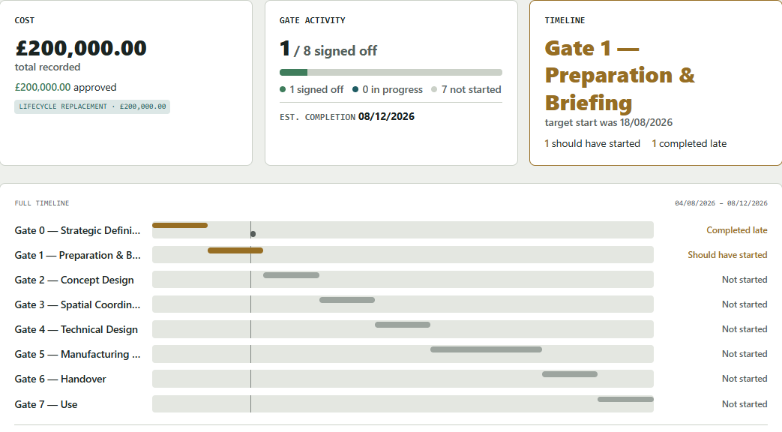
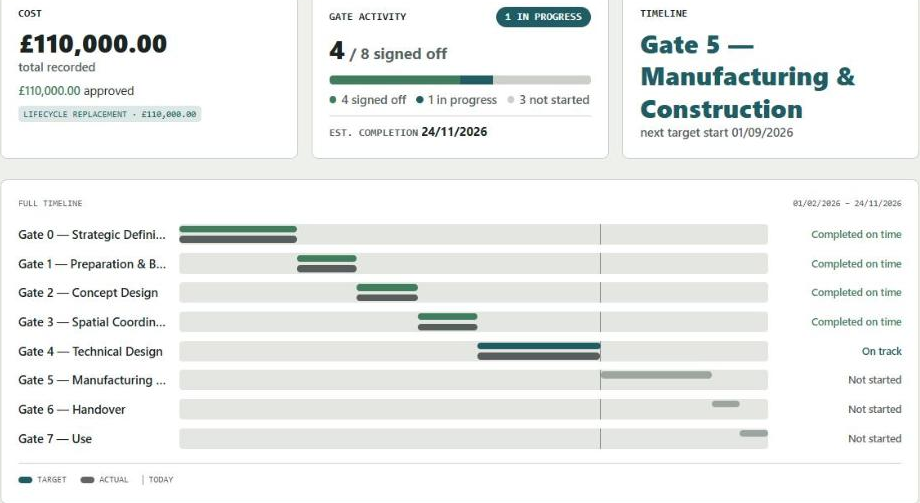
Refresh landing page screenshots and add a scheduled-reports card
Swaps the Gate 0 timeline shot for a Gate 1 deliverables checklist (more
representative content -- real SHTM/CDM-cited items, not just an empty
date picker), replaces the Gate 4 screenshot with the same project's
technical design package, and regenerates the whole-programme dashboard
screenshot (used in both the hero and the walkthrough) to show a healthy
on-time delivery story instead of the old late/not-started state.

Also adds a fourth "what it does" card for scheduled reports -- a real,
already-built feature (automated weekly portfolio-wide email digest) that
wasn't represented anywhere on the page. Switches that section's grid
from 3 to 2 columns to fit it cleanly as 2x2.

Claude-Session: https://claude.ai/code/session_01A58sEpFfr6MjyHqsNJ5B4t

diff --git a/landing-page/public/index.html b/landing-page/public/index.html
@@ -238,10 +238,6 @@
   .card h3 { font-size: 17px; margin: 0 0 8px; }
   .card p { font-size: 14.5px; color: var(--ink-muted); margin: 0; }
   .card p strong { color: var(--ink); }
-  .card.highlight {
-    border-color: var(--teal);
-    box-shadow: 0 0 0 1px var(--teal), 0 14px 30px -16px rgba(45,154,156,0.45);
-  }
   .card .badge {
     display: inline-block;
     font-size: 11px;
@@ -503,7 +499,7 @@
       inconsistent PM skill, complex overlapping regulations, and no shared system across projects
       is the actual, everyday problem.
     </p>
-    <div class="grid3">
+    <div class="grid2">
       <div class="card">
         <div class="num">1</div>
         <h3>A template library, not a blank page</h3>
@@ -511,7 +507,7 @@
           Fire Detection and more — each mapped from real RIBA/SHTM/HTM-aligned source documents, so
           consistency doesn't depend on which PM happens to be running it.</p>
       </div>
-      <div class="card highlight">
+      <div class="card">
         <div class="num">2</div>
         <div class="badge">Who has the final say</div>
         <h3>Compliance runs with delivery, not after it</h3>
@@ -526,6 +522,14 @@
         <p>A gate can't move forward without uploaded evidence and a Sponsor's sign-off against it
           — a real audit trail, not a status someone typed into a tracker. By Gate 4, a cost request
           is backed by real scope and quotes — not a guess made before the work was even understood.</p>
+      </div>
+      <div class="card">
+        <div class="num">4</div>
+        <h3>A standing report, not a status chase</h3>
+        <p>A weekly portfolio summary — every project's gate status, spend and outstanding risk —
+          goes out by email automatically to whoever needs it. A Trust exec gets visibility
+          <strong>without a login, a status meeting, or a PM building a deck</strong>, drawn live
+          from the same data the team is already keeping current.</p>
       </div>
     </div>
   </div>
@@ -603,18 +607,18 @@
           <figure>
             <div class="browser-frame">
               <div class="chrome-bar">
-                <span class="label">Gate 0 — Strategic Definition</span>
+                <span class="label">Gate 1 — Preparation &amp; Briefing</span>
               </div>
-              <img src="/screenshots/gate-timeline.png" alt="A signed-off gate with its target and actual dates" loading="lazy" />
+              <img src="/screenshots/gate1-deliverables.png" alt="A gate's delivery checklist and compliance requirement, each item citing its SHTM or CDM 2015 source" loading="lazy" />
             </div>
-            <figcaption>Tracked against target vs. actual dates — nothing closes silently.</figcaption>
+            <figcaption>Every deliverable and compliance item citing its own regulatory source — nothing generic.</figcaption>
           </figure>
           <figure>
             <div class="browser-frame">
               <div class="chrome-bar">
                 <span class="label">Gate 4 — Technical Design</span>
               </div>
-              <img src="/screenshots/technical-design-package.png" alt="A gate's full technical design deliverables package, each item citing its HTM or British Standard source" loading="lazy" />
+              <img src="/screenshots/gate4-deliverables.png" alt="A gate's full technical design deliverables package, each item citing its SHTM or CDM 2015 source" loading="lazy" />
             </div>
             <figcaption>A real discipline-specific checklist — every item citing its regulatory source.</figcaption>
           </figure>
